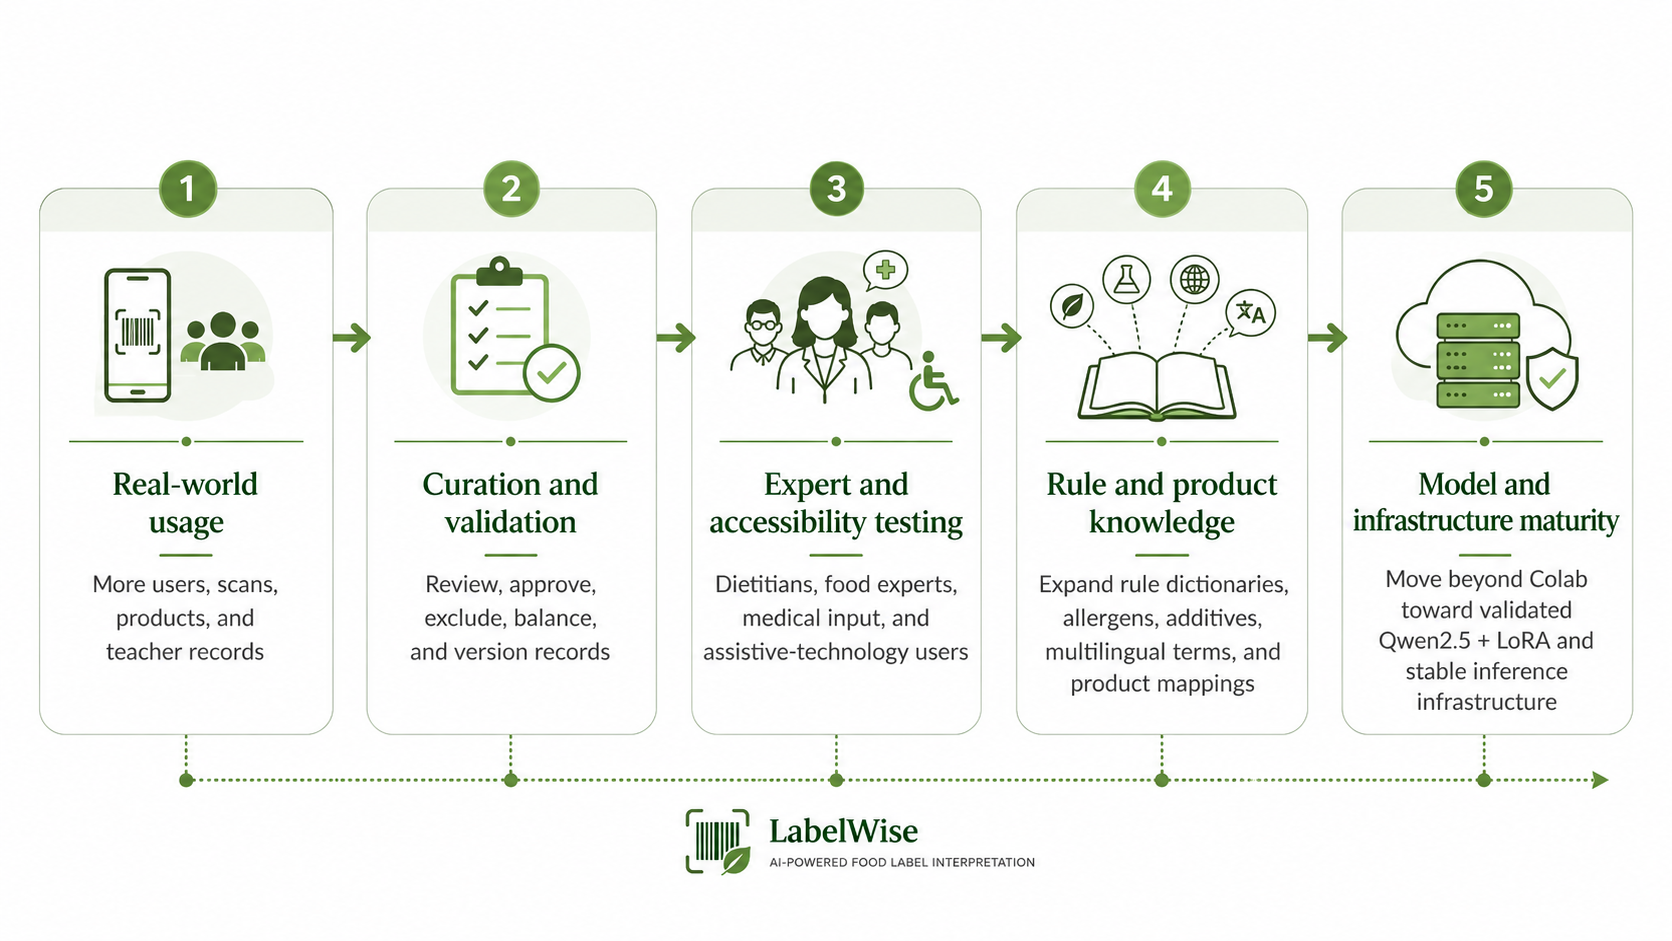
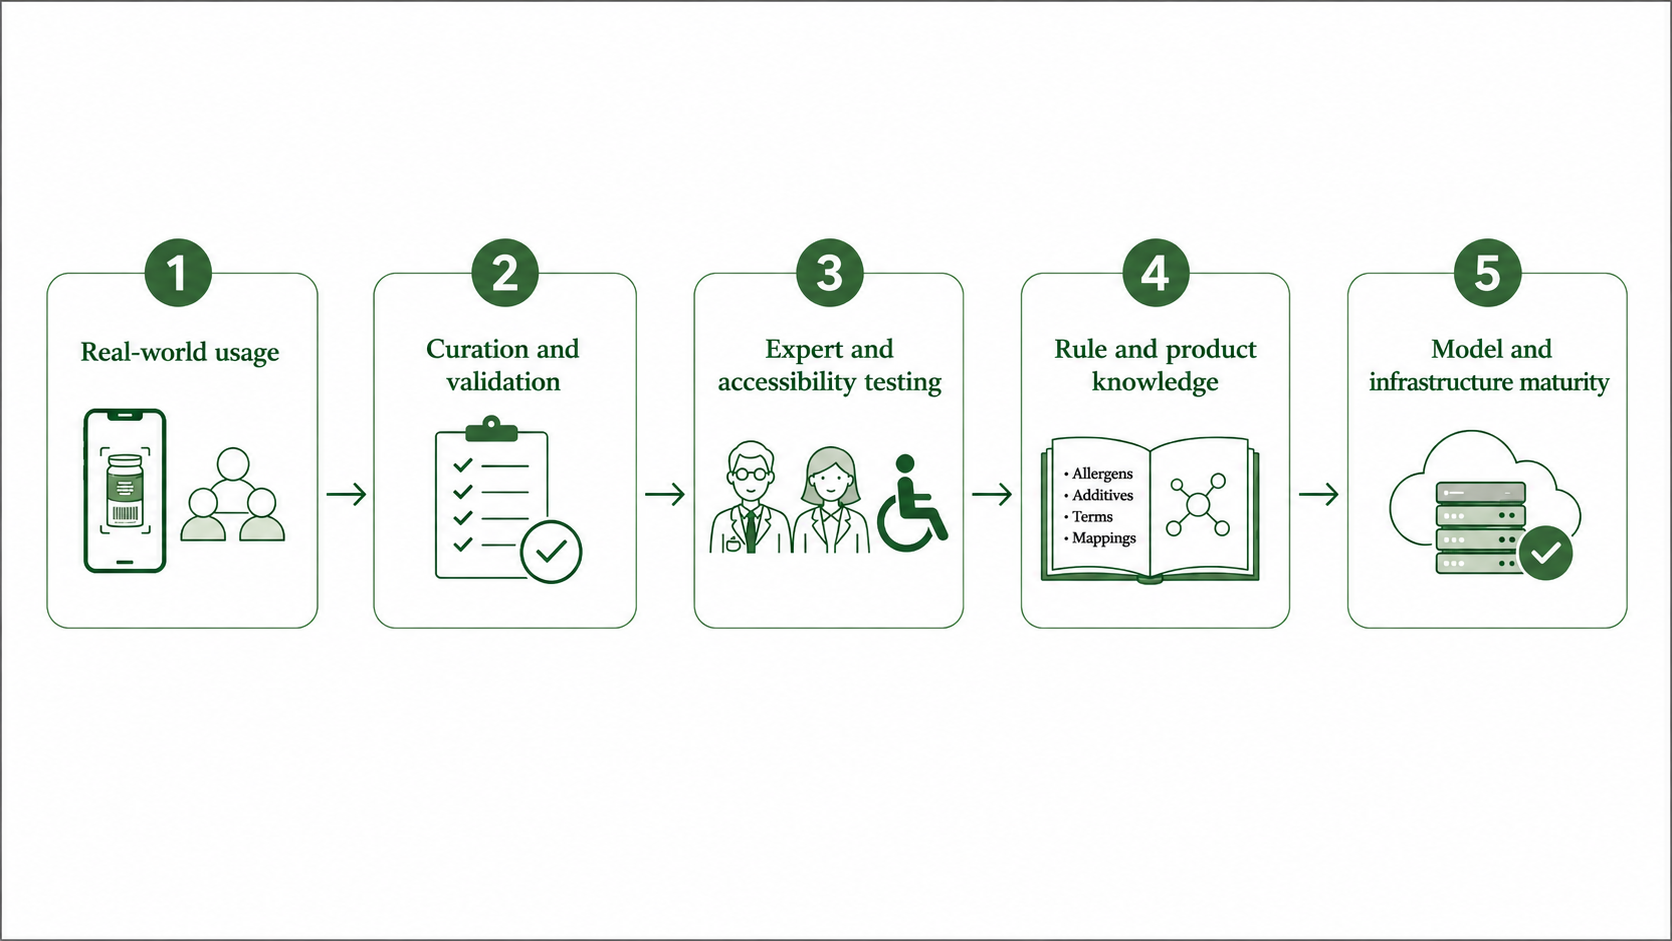
changes2

diff --git a/index.html b/index.html
@@ -2273,52 +2273,56 @@
               <p class="problem-kicker">Future Work Roadmap</p>
             </div>
 
-            <figure class="future-hero">
-              <img src="images/future.png" alt="LabelWise future work roadmap showing five stages: real-world usage, curation and validation, expert and accessibility testing, rule and product knowledge, and model and infrastructure maturity" />
-            </figure>
+            <div class="future-steps" aria-label="Future work roadmap details">
+              <div class="future-step-track"></div>
 
-            <div class="future-list" aria-label="Future work roadmap details">
-              <div class="future-list-row">
-                <div class="future-item">
-                  <span class="future-num">01</span>
-                  <div class="future-item-body">
-                    <h4>Real-world usage</h4>
-                    <p>Collect more scans, products, dietary profiles, preference combinations, and teacher records from real shopping contexts.</p>
-                  </div>
+              <div class="future-step fragment" data-fragment-index="0">
+                <div class="future-step-thumb">
+                  <img src="images/road_1.png" alt="Real-world usage" />
                 </div>
-                <div class="future-item">
-                  <span class="future-num">02</span>
-                  <div class="future-item-body">
-                    <h4>Curation and validation</h4>
-                    <p>Review, correct, exclude, approve, balance, and version records before using them for evaluation or training.</p>
-                  </div>
+                <div class="future-step-body">
+                  <h4>Real-world usage</h4>
+                  <p>Collect more scans, products, dietary profiles, preference combinations, and teacher records from real shopping contexts.</p>
                 </div>
               </div>
 
-              <div class="future-list-row">
-                <div class="future-item">
-                  <span class="future-num">03</span>
-                  <div class="future-item-body">
-                    <h4>Expert and accessibility testing</h4>
-                    <p>Involve dietitians, food safety professionals, medical advisors, certification knowledge, and assistive-technology users.</p>
-                  </div>
+              <div class="future-step fragment" data-fragment-index="1">
+                <div class="future-step-thumb">
+                  <img src="images/road_2.png" alt="Curation and validation" />
                 </div>
-                <div class="future-item">
-                  <span class="future-num">04</span>
-                  <div class="future-item-body">
-                    <h4>Rule and product knowledge</h4>
-                    <p>Expand rule dictionaries, multilingual ingredient terms, allergen synonyms, additive mappings, hidden animal-derived terms, and product-category knowledge.</p>
-                  </div>
+                <div class="future-step-body">
+                  <h4>Curation and validation</h4>
+                  <p>Review, correct, exclude, approve, balance, and version records before using them for evaluation or training.</p>
                 </div>
               </div>
 
-              <div class="future-list-row future-list-row-center">
-                <div class="future-item">
-                  <span class="future-num">05</span>
-                  <div class="future-item-body">
-                    <h4>Model and infrastructure maturity</h4>
-                    <p>Move beyond Colab proof toward validated Qwen2.5 + LoRA experiments, stable infrastructure, and hosted inference only after enough curated data.</p>
-                  </div>
+              <div class="future-step fragment" data-fragment-index="2">
+                <div class="future-step-thumb">
+                  <img src="images/road_3.png" alt="Expert and accessibility testing" />
+                </div>
+                <div class="future-step-body">
+                  <h4>Expert and accessibility testing</h4>
+                  <p>Involve dietitians, food safety professionals, medical advisors, certification knowledge, and assistive-technology users.</p>
+                </div>
+              </div>
+
+              <div class="future-step fragment" data-fragment-index="3">
+                <div class="future-step-thumb">
+                  <img src="images/road_4.png" alt="Rule and product knowledge" />
+                </div>
+                <div class="future-step-body">
+                  <h4>Rule and product knowledge</h4>
+                  <p>Expand rule dictionaries, multilingual ingredient terms, allergen synonyms, additive mappings, hidden animal-derived terms, and product-category knowledge.</p>
+                </div>
+              </div>
+
+              <div class="future-step fragment" data-fragment-index="4">
+                <div class="future-step-thumb">
+                  <img src="images/road_5.png" alt="Model and infrastructure maturity" />
+                </div>
+                <div class="future-step-body">
+                  <h4>Model and infrastructure maturity</h4>
+                  <p>Move beyond Colab proof toward validated Qwen2.5 + LoRA experiments, stable infrastructure, and hosted inference only after enough curated data.</p>
                 </div>
               </div>
             </div>

diff --git a/assets/css/theme.css b/assets/css/theme.css
@@ -13893,92 +13893,82 @@ body.has-dashboard-lightbox {
   margin: 0 auto;
   display: flex;
   flex-direction: column;
-  gap: 18px;
-  padding-top: 8px;
+  gap: 6px;
+  padding-top: 2px;
 }
 
-.future-hero {
-  margin: 0;
-  padding: 0;
-  display: flex;
-  justify-content: center;
-  align-items: center;
-}
-
-.future-hero img {
-  display: block;
-  max-width: 100%;
-  width: auto;
-  height: auto;
-  max-height: 340px;
-  border-radius: 12px;
-  box-shadow: 0 6px 24px rgba(5, 28, 18, 0.08);
-}
-
-.future-list {
+.future-steps {
+  position: relative;
   display: flex;
   flex-direction: column;
-  gap: 10px;
+  gap: 4px;
 }
 
-.future-list-row {
+.future-step-track {
+  position: absolute;
+  left: 94px;
+  top: 12px;
+  bottom: 12px;
+  width: 2px;
+  background: rgba(177, 42, 36, 0.15);
+}
+
+.future-step {
   display: flex;
+  align-items: center;
   gap: 20px;
 }
 
-.future-list-row > .future-item {
-  flex: 1;
-  min-width: 0;
-}
-
-.future-list-row-center {
-  justify-content: center;
-}
-
-.future-list-row-center > .future-item {
-  max-width: calc(50% - 10px);
-}
-
-.future-item {
-  display: flex;
-  align-items: flex-start;
-  gap: 10px;
-}
-
-.future-num {
+.future-step-thumb {
   flex: 0 0 auto;
-  display: inline-grid;
-  place-items: center;
-  width: 24px;
-  height: 24px;
-  border-radius: 6px;
-  background: rgba(177, 42, 36, 0.1);
-  color: var(--novia-red);
-  font-size: 0.58rem;
-  font-weight: 950;
-  letter-spacing: 0.02em;
-  margin-top: 1px;
+  width: 190px;
+  height: 115px;
+  display: flex;
+  align-items: center;
+  justify-content: center;
+  border-radius: 8px;
+  background: rgba(255, 255, 255, 0.5);
+  overflow: hidden;
 }
 
-.future-item-body {
+.future-step-thumb img {
+  width: 100%;
+  height: 100%;
+  object-fit: cover;
+  object-position: center;
+  border-radius: 8px;
+}
+
+.future-step-body {
   flex: 1;
   min-width: 0;
 }
 
-.future-item-body h4 {
+.future-step-body h4 {
   margin: 0 0 2px;
   color: var(--novia-red);
-  font-size: 0.72rem;
+  font-size: 0.78rem;
   font-weight: 950;
   letter-spacing: 0.03em;
-  line-height: 1.2;
+  line-height: 1.15;
   text-transform: uppercase;
 }
 
-.future-item-body p {
+.future-step-body p {
   margin: 0;
   color: #34443a;
-  font-size: 0.68rem;
+  font-size: 0.72rem;
   font-weight: 760;
-  line-height: 1.35;
+  line-height: 1.3;
+}
+
+.reveal .future-steps .fragment {
+  opacity: 0;
+  transform: translateX(-12px);
+  transition: opacity 360ms ease, transform 360ms ease;
+}
+
+.reveal .future-steps .fragment.visible {
+  opacity: 1;
+  transform: translateX(0);
 }
